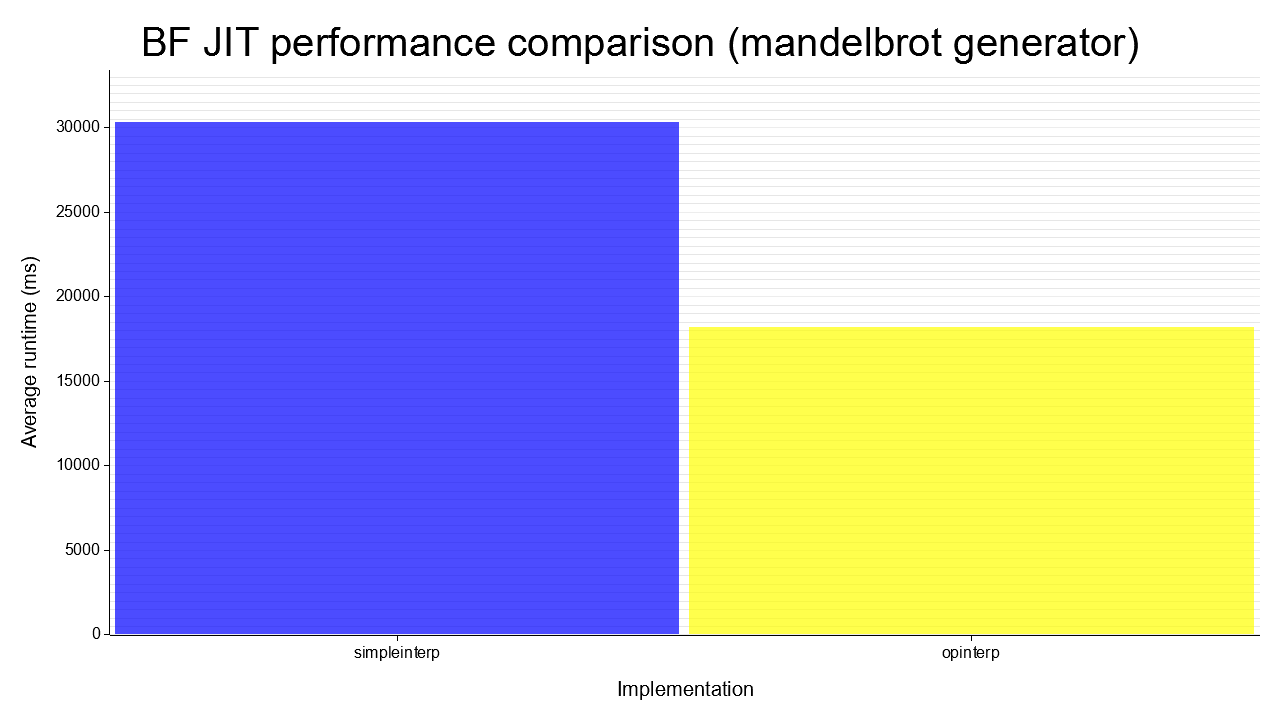
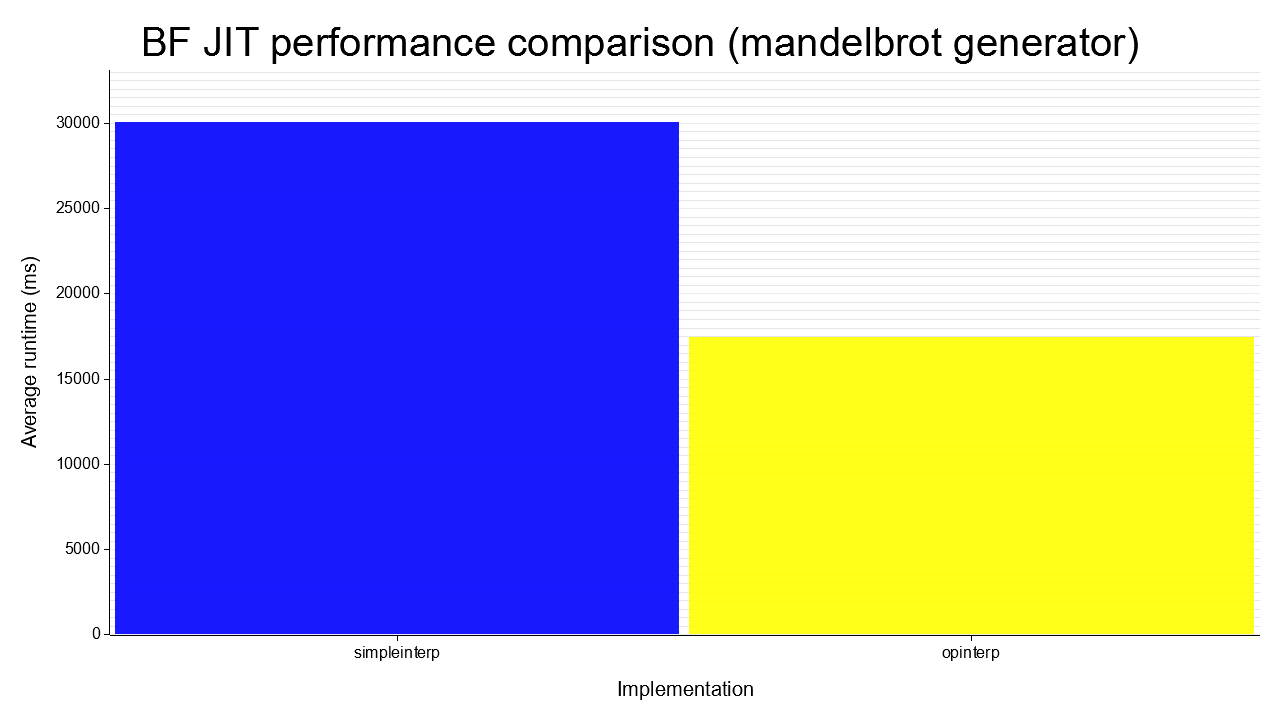
Improve colors

diff --git a/bench/src/lib.rs b/bench/src/lib.rs
@@ -129,8 +129,8 @@ fn create_graph<const N: usize>(
     chart.draw_series(
         Histogram::vertical(&chart)
             .style_func(|value, _millis| match **segmented_value_to_inner(value) {
-                "simpleinterp" => BLUE.mix(0.7).filled(),
-                "opinterp" => YELLOW.mix(0.7).filled(),
+                "simpleinterp" => BLUE.mix(0.9).filled(),
+                "opinterp" => YELLOW.mix(0.9).filled(),
                 _ => unreachable!(),
             })
             .data(perf_millis.iter().map(|x| (&x.name, x.millis))),
